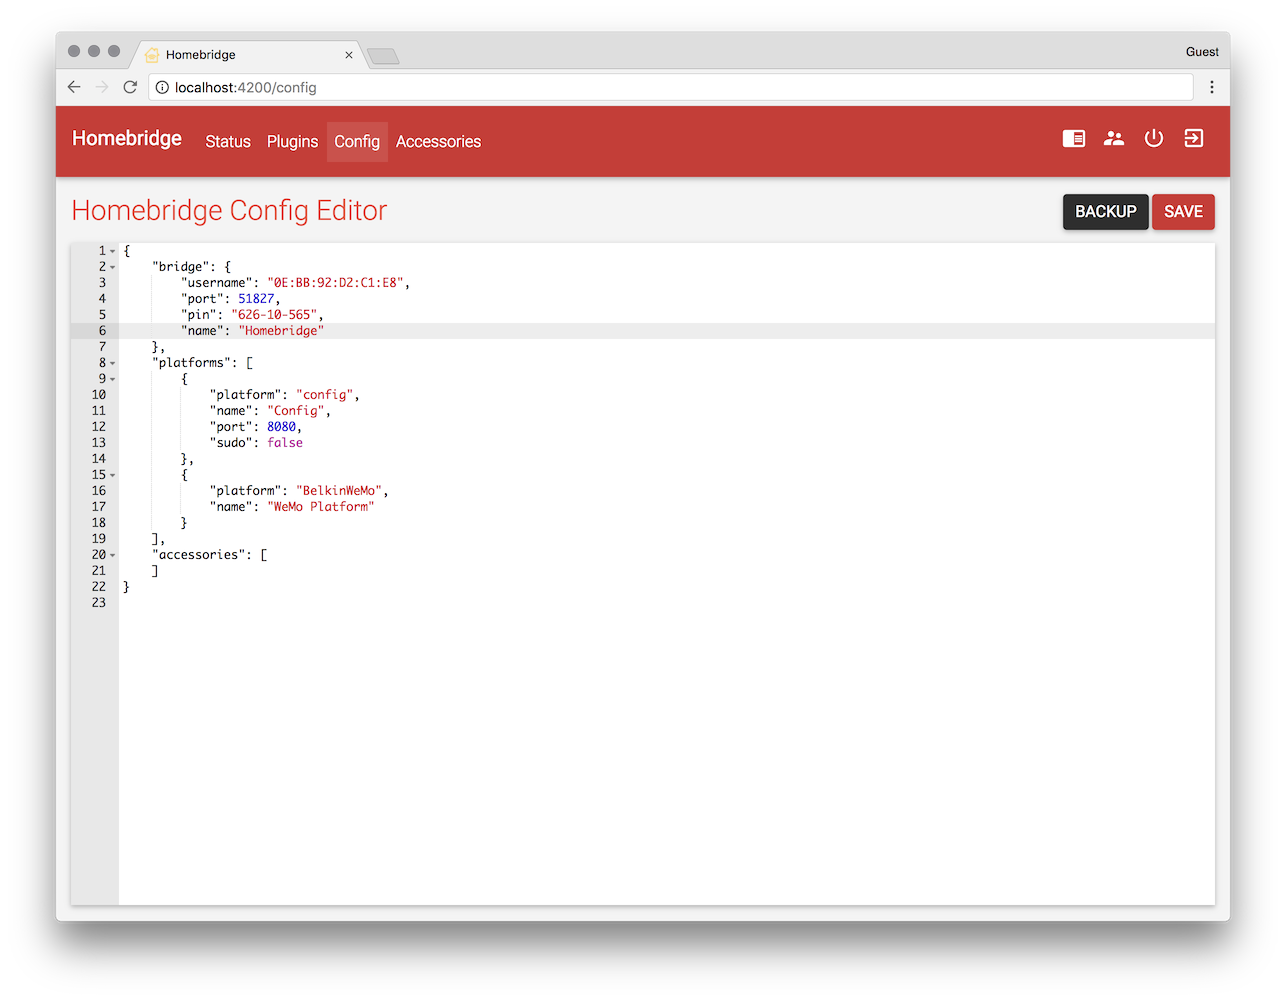
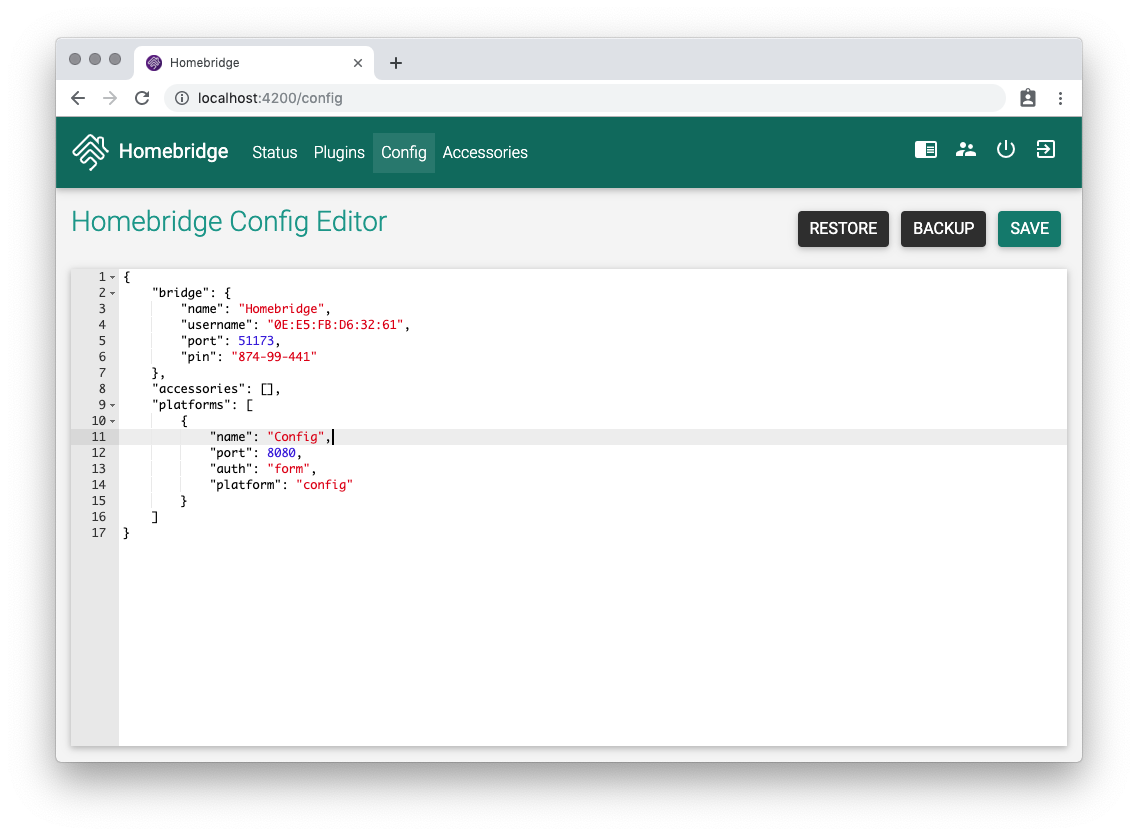
fix on-state, readme images

Changed region(s): [[0.0308, 0.0311, 0.9842, 0.9641]]

diff --git a/ui/src/app/modules/accessories/accessories.component.scss b/ui/src/app/modules/accessories/accessories.component.scss
@@ -1,5 +1,4 @@
 ::ng-deep .accessory-box {
-  background-color: #e0e0e0;
   cursor: pointer;
   height: 150px;
   width: 150px;

diff --git a/README.md b/README.md
@@ -22,6 +22,8 @@ Once you have installed and configured the plugin you can access the interface v
 
 The default username is `admin` and the default password is `admin`.
 
+*Docker users should set the environment variable `HOMEBRIDGE_CONFIG_UI=1` to enable the UI. No further manual installation or configuration is required. [See options](https://github.com/oznu/docker-homebridge#homebridge-ui-options).*
+
 # Configuration
 
 Add this to your homebridge `config.json` file
@@ -190,32 +192,32 @@ Or if using a **PKCS#12** certificate you can setup SSL like this:
 
 ### Status Screen
 
-This shows you that the services are running. It also has your HomeKit pin.
+This shows an overview of your Homebridge system. It displays your pairing QR code, and informs you if there are any updates available for Homebridge or installed plugins.
 
-![Status](screenshots/homebridge-config-ui-x-status.png)
+![Status](screenshots/homebridge-config-ui-x-status.png?2019-08-10)
 
 ### Log Screen
 
-This shows you the rolling log. This is helpful for troubleshooting.
+This shows you the Homebridge rolling log. This is helpful for troubleshooting.
 
-![Log](screenshots/homebridge-config-ui-x-logs.png)
+![Log](screenshots/homebridge-config-ui-x-logs.png?2019-08-10)
 
 ### Plugin Screen
 
 This shows you the currently installed plugins and allows you to install, remove and upgrade plugins.
 
-![Log](screenshots/homebridge-config-ui-x-plugins.png)
+![Log](screenshots/homebridge-config-ui-x-darkmode-plugins.png)
 
-When installing, removing or upgrading plugins the output is show in the browser to help troubleshoot any issues.
+You can configure supported plugins using the graphical settings editor, removing the need to manually edit the `config.json`.
 
-![Log](screenshots/homebridge-config-ui-x-plugins-install.png)
+![Log](screenshots/homebridge-config-ui-x-darkmode-alexa-settings.png?2019-08-10)
 
 
 ### Configuration Screen
 
-And finally the configuration screen allows you to modify your Homebridge settings and your platforms and accessories.
+The configuration screen allows you to modify your Homebridge `config.json`. The built in editor automatically syntax-checks your JSON and makes a backup of your config every time you make a change.
 
-![Config](screenshots/homebridge-config-ui-x-config.png)
+![Config](screenshots/homebridge-config-ui-x-config.png?2019-08-10)
 
 # Supported Browsers
 
